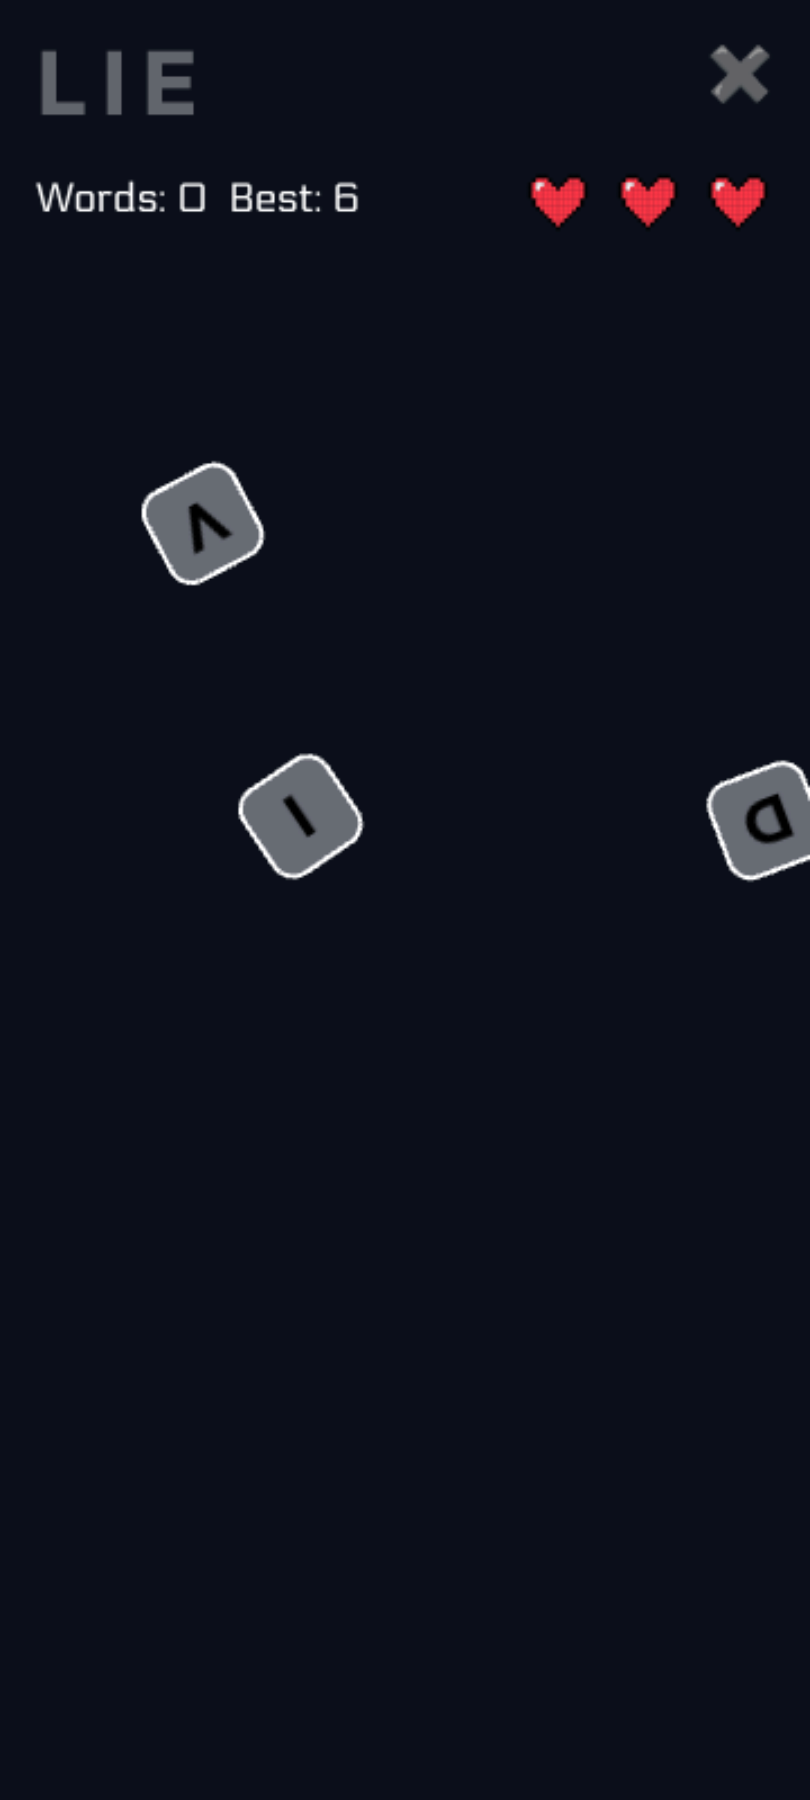
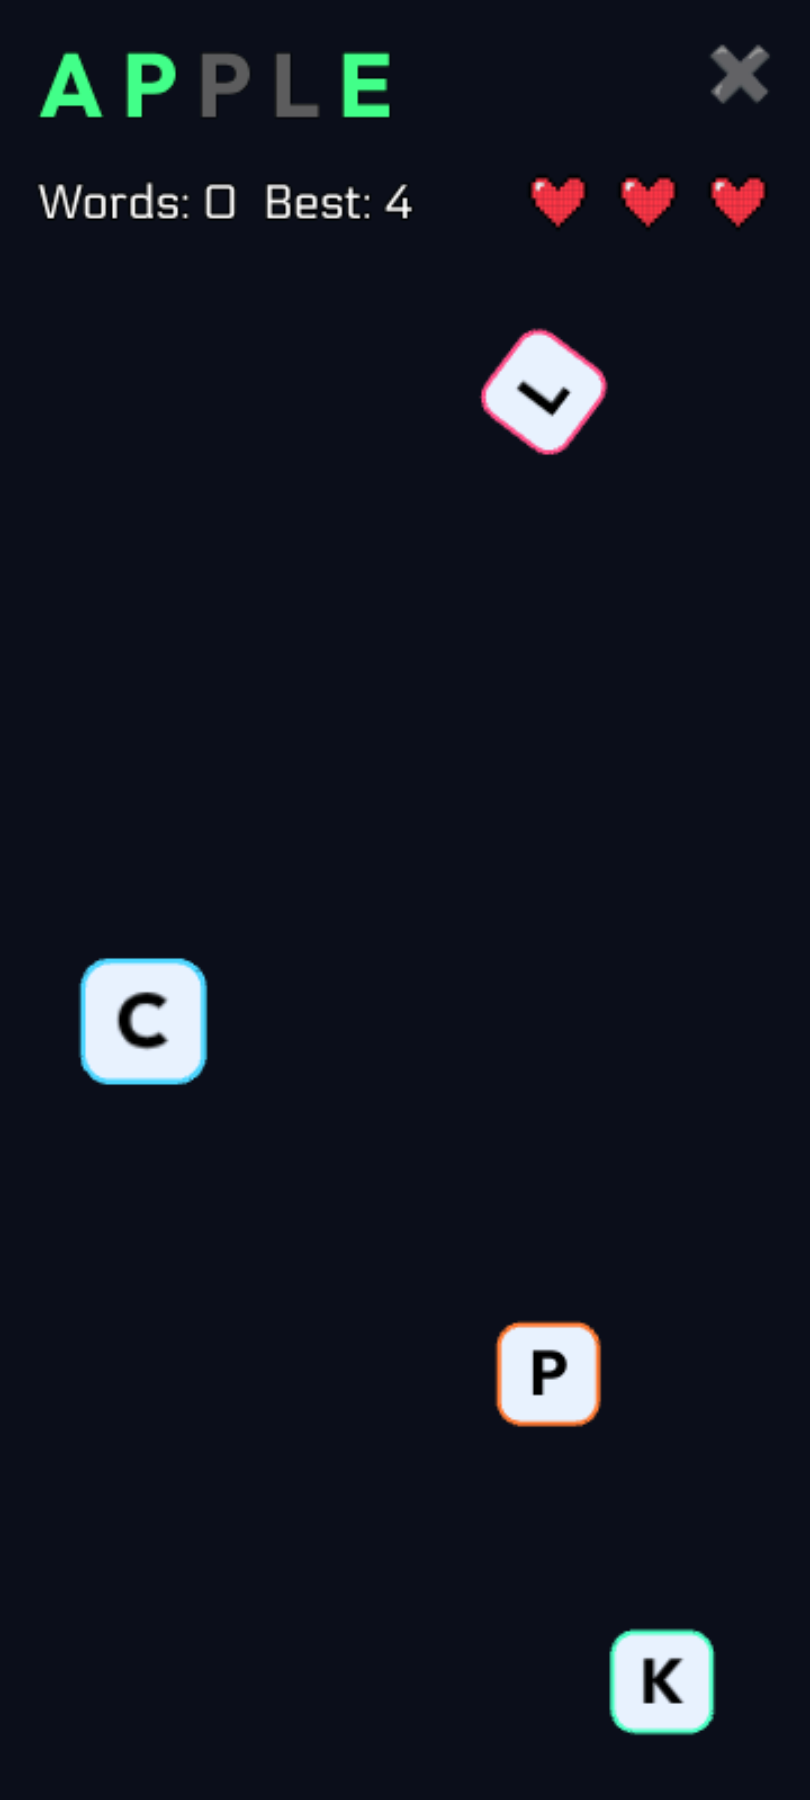
v0.3.0 patch notes

diff --git a/README.md b/README.md
@@ -14,19 +14,22 @@ The game is currently accessible via web browser:
 
 ## Overview
 
-In **Catch the Letter**, target words appear at the top of the screen. Letters float around with unpredictable movements, turning the screen into complete chaos as time goes on. The objective is to tap or swipe the correct letters in sequence to complete each word before running out of lives.
+In **Catch the Letter**, target words appear at the top of the screen. Letters float around with unpredictable movements and behaviours, turning the screen into complete chaos as time goes on.
+
+Rules are simple: tap the correct letters to complete each word, avoid distractors and duplicate letters, they make you lose one life point, if you run out of lives it's game over.
+
+There is no objective rather than completing all the levels and beating the best score, every level is different and in the future many more will be added, stay tuned!
 
 ## Mechanics & Rules
 
 - **Target Words**: Displayed continuously at the top of the interface.
 - **Life System**: Starts with three hearts representing available lives.
 - **Penalty Triggers**: Losing a life occurs when tapping an incorrect letter or tapping a duplicate letter that was already captured.
-- **Dynamic Movement**: Letters move randomly and rapidly accelerate density during late-game play.
 
 ## Game Modes
 
-- **Play Endlessly**: Test limits by surviving as long as possible without losing all lives.
-- **10 Min Challenge**: Maximize completed words within a strict 10-minute limit.
+- **Play Endlessly**: Test limits by completing all levels and surviving as long as possible without losing all lives.
+- **10 Min Challenge**: Maximize completed levels within a strict 10-minute limit.
 
 High scores and completed word counters persist between runs.
 

diff --git a/patch-notes/PATCH_NOTES.md b/patch-notes/PATCH_NOTES.md
@@ -32,3 +32,9 @@ First version : )
 ## v0.2.2
 
 - Spawning letters now have a random colored border.
+
+## v0.3.0
+
+- Each level is different; 19 different levels have been added.
+
+    *NOTE: For now, completing all levels will loop back to the first level; I'll be adding many more levels in the future. Stay tuned!*
